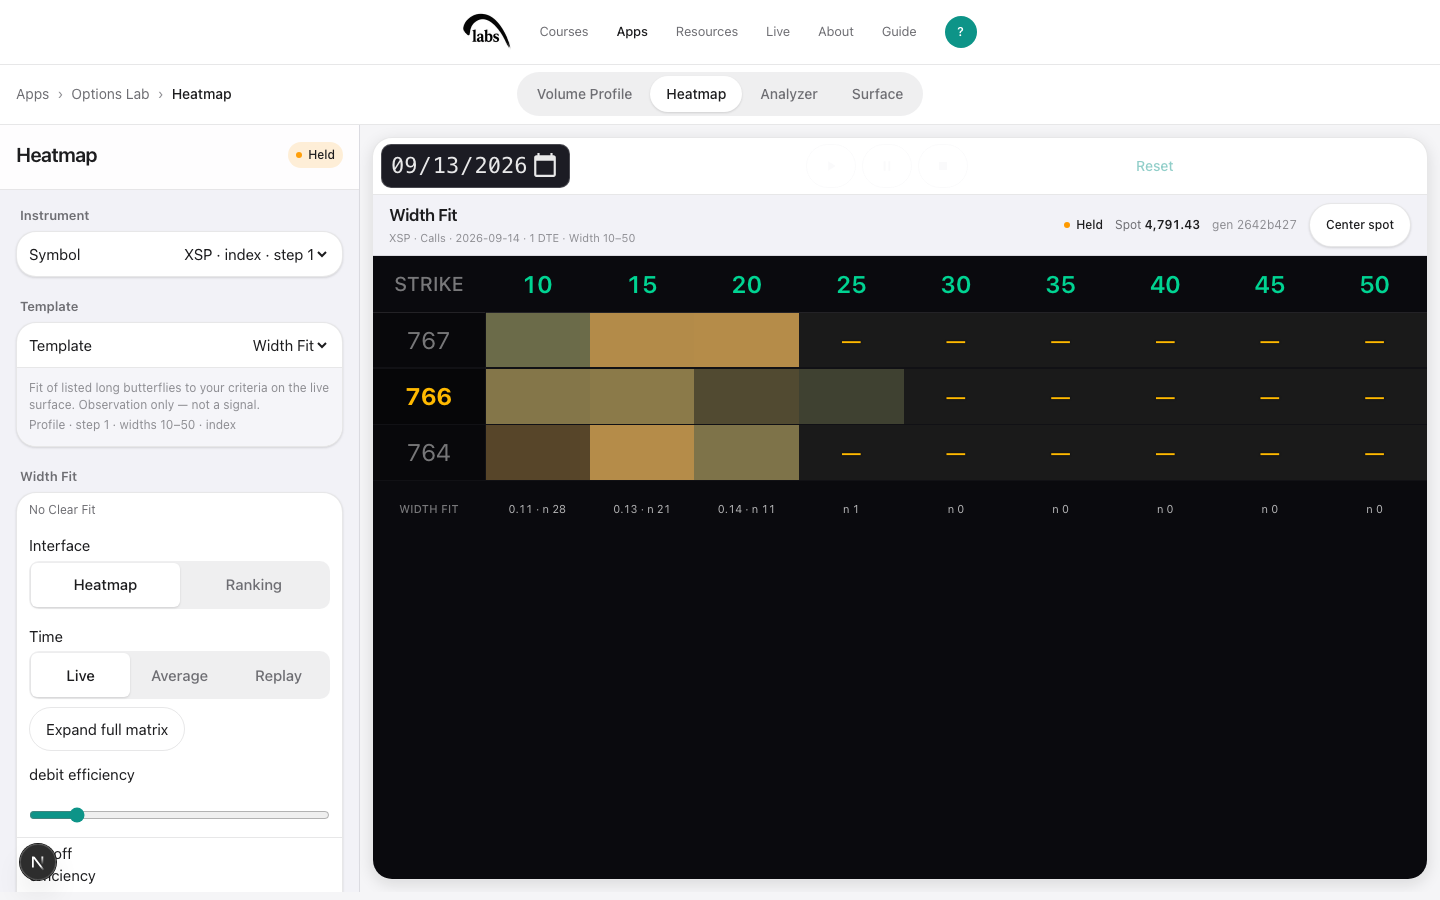
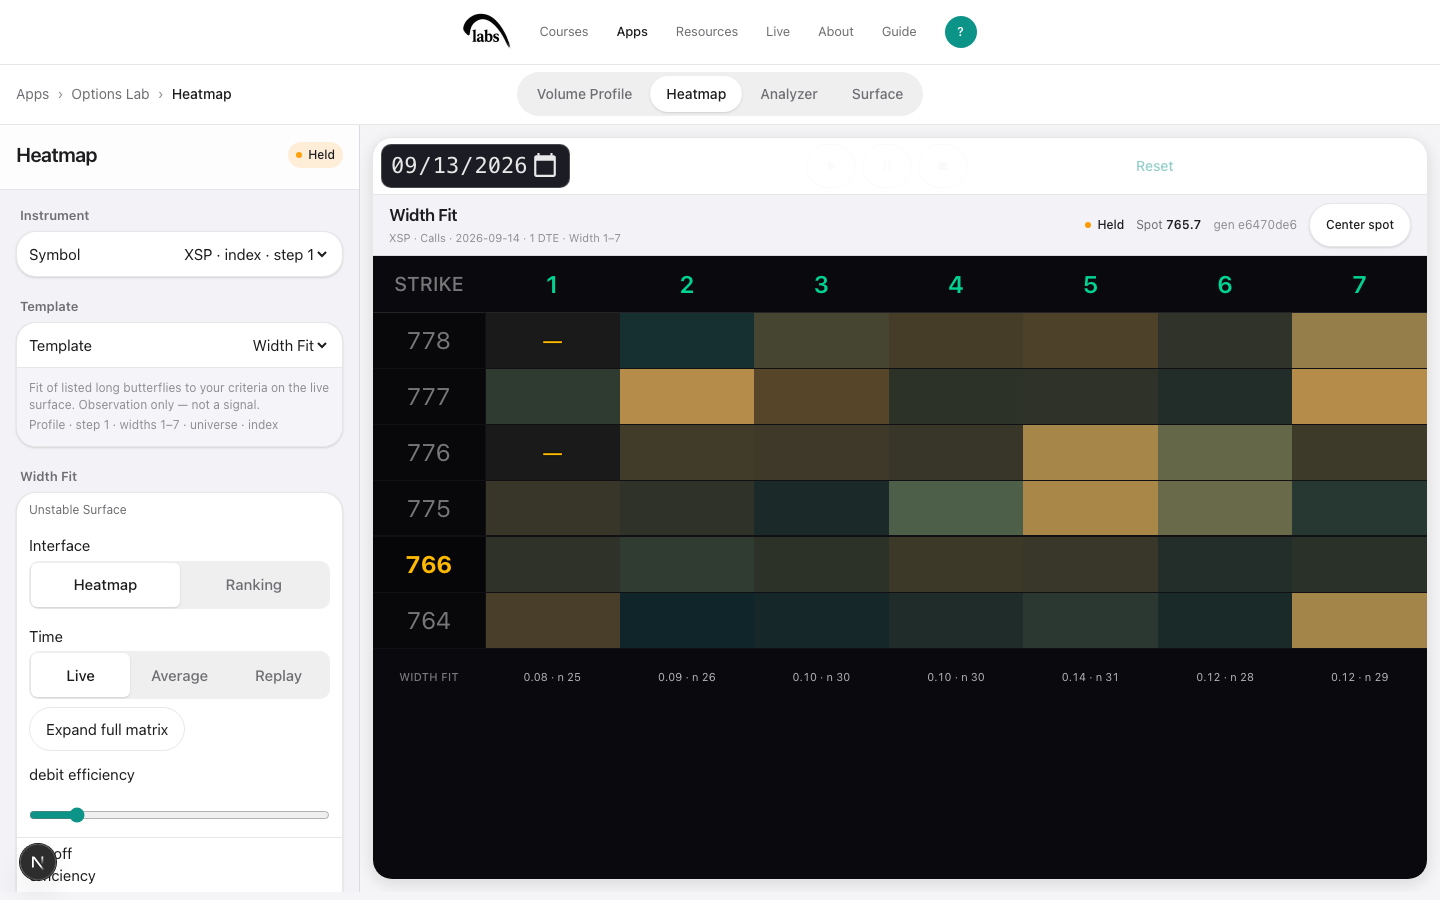
docs(options-lab): XS4 live recapture, FI-050, XS0–XS5 gates PASS
Recapture Playwright against Next serving the XS packet (5 passed).
Flag QQQ/IWM heatmap 10…50 as FI-050 (JR8). Write XS0-G…XS5-G.

diff --git a/agents/p-options-lab-xsp-spy-scale/gate-reports/xs4/at-pack.md b/agents/p-options-lab-xsp-spy-scale/gate-reports/xs4/at-pack.md
@@ -1,8 +1,9 @@
 # XS4 AT pack — evidence index
 
 **Date:** 2026-09-13  
-**Worktree HEAD:** PR2+PR3+PR4 merged (`725ed06`)  
-**Live UI (`:3000` / `:4000`):** `/Users/ernie/Fattail-Labs` `a27f187` WIDTH-1 — **not** this worktree. Servers were not stopped.
+**Landed:** `origin/main` (XS packet). Recapture Next: PR6 worktree `:3000`. API `:4000` main.  
+**First run** (WIDTH-1 Next): `playwright.txt` — AT-XS6/9/10 live FAIL expected.  
+**Recapture:** `playwright-recapture.txt` — **5 passed**. Shots 04/06/07 overwritten with PASS.
 
 | Id | Result | Evidence |
 |----|--------|----------|
@@ -13,7 +14,7 @@
 | **AT-XS4** | PASS (live Create) | `01-xsp-1-wide.png` 765/766/767 at spot 765.70; walk `05-xsp-width-walk.png` |
 | **AT-XS5** | PASS (live + unit) | `03-spx-20-wide.png` 7635/7655/7675; unit NDX/RUT/QQQ/IWM/AAPL 20 |
 | **AT-XS5b** | PASS (grep) | `defaultWidth` still `NDX` / `NQ*` → 50 |
-| **AT-XS6** | FAIL on live Next (expected) · PASS unit | Live `:3000` is WIDTH-1 — `handleTemplate` still reseeds 20 (`04-xsp-template-reseed.png` 746/766/786). Unit `labDefaultForStrategy("butterfly","XSP").wingWidth === 1` |
+| **AT-XS6** | PASS live recapture | `04-xsp-template-reseed.png` · `playwright-recapture.txt`. First run FAIL was WIDTH-1 Next |
 | **AT-XS7** | PASS (unit) | `heatmapColumnWidths.test.ts` |
 | **AT-XS7b** | PASS (unit) | same |
 | **AT-XS7c** | PASS (unit) | interior `[1,2,3]` |
@@ -23,8 +24,8 @@
 | **AT-XS7g** | PASS (live SQL) | `profile-live.json` — exactly SPY, XSP |
 | **AT-XS8** | PASS (unit + live SPX shot) | `08-heatmap-spx-cols.png` 10…50 |
 | **AT-XS8b** | PASS (unit) | NDX/RUT/VIX + QQQ/IWM/AAPL freeze `[10…50]` — QQQ/IWM **not** “fixed” |
-| **AT-XS9** | FAIL on live Next (expected) · PASS unit | Live XSP heatmap still DL-435 `10…50` (`06-heatmap-xsp-cols.png`). PR3 helper is not the process on `:3000` |
-| **AT-XS10** | FAIL on live Next (expected) · PASS unit | Live XSP Width Fit footer 9 (`07-width-fit-xsp.png`); SPX footer 9 (`09-width-fit-spx.png`) |
+| **AT-XS9** | PASS live recapture | `06-heatmap-xsp-cols.png` columns 1–7. First run FAIL was WIDTH-1 Next |
+| **AT-XS10** | PASS live recapture | `07-width-fit-xsp.png` footer 7 · `09-width-fit-spx.png` footer 9 |
 | **AT-XS11** | PASS (unit + live) | `listedWingChoices.test.ts`; `02-spy-listed-honesty.png` 744/764/784 — prefer=1, honest 20, not a lying 1-wide |
 | **AT-XS12** | PASS (pytest) | `pytest-symbol-profile.txt` — 8 passed |
 | **AT-XS12b** | PASS (live SQL) | `profile-live.json` / `profile-live.txt` |
@@ -54,4 +55,4 @@
 - `npx tsc --noEmit` (web) — exit 1, **34 pre-existing** errors in algo/LIM/blotter tests. **Zero** in XS files. See `tsc.txt`.
 - `pytest tests/test_symbol_profile.py` — **8 passed**
 - `npx --yes tsx` helper tests — heatmapColumnWidths 18, builderCreateDefault 10, listedWingChoices 5
-- Playwright vs `http://localhost:3000` — Create 01/02/03 + walk 05 PASS; AT-XS6 / heatmap 1–7 FAIL because live Next is WIDTH-1 main
+- Playwright vs `http://localhost:3000` — first run Create PASS, AT-XS6/9/10 FAIL (WIDTH-1 Next). Recapture **5 passed** (`playwright-recapture.txt`)

diff --git a/AGENTS.md b/AGENTS.md
@@ -25,7 +25,7 @@ LearnDash. No shared code with MarketSwarm-Canonical (HTTP only).
 |----------|---------------------|
 | **Options Lab Heatmap LIM (active program · DL-651 · DL-652 · LIM7)** | LIM remains active (LIM7 surface fit). Do not drift LIM. IKI Lab is **parked**, not cancelled. DL-539 §8 five-module freeze is **unchanged** except the Quant line below. |
 | **Quant Lab fill-friction (active program · DL-679 · QFRIC)** | ATRV v0.10 §3.7.1 BUILD. Board `agents/p-quant-friction/`. Token `agents/go/QFRIC-W0.md`. Isolation: DL-677 quant files + Monte Carlo page + `validate_quant_env` + `.env.example`. No LIM file, no OPF file, no store/builder. P4 skipped until fill history (never in the repo). |
-| **Options Lab XSP/SPY scale (active program · DL-700 · XS)** | Plan **v1.3**. Board `agents/p-options-lab-xsp-spy-scale/`. Token `agents/go/XS0-W0.md` **GO**. Third tree alongside LIM and QFRIC. WIDTH-1 `a27f187` prerequisite. No LIM file, no QFRIC file, no `AnalyzerPositionsList`, no MiniTwo. **NX18:** a passing XS gate is not IKI progress. Runner is Template Runner (`web/lib/runner/`). XS4 AT pack landed locally (not MiniTwo, not IKI). |
+| **Options Lab XSP/SPY scale (active program · DL-700 · XS)** | Plan **v1.3** landed `origin/main`. Board `agents/p-options-lab-xsp-spy-scale/`. Token `agents/go/XS0-W0.md` **GO**. Gates XS0-G…XS5-G **PASS**. Third tree alongside LIM and QFRIC. WIDTH-1 `a27f187` prerequisite. No LIM file, no QFRIC file, no `AnalyzerPositionsList`. Live AT recapture 5/5 on Coach MacBook. MiniTwo is Coach remote (named 2026-09-13; this agent does not SSH). **NX18:** a passing XS gate is not IKI progress. Runner is Template Runner (`web/lib/runner/`). **FI-050** XS-ETF deferred. |
 | **Strategy Lab NOW** | Lock **Design + Curate** for entitled members. Multi-member Curate is absolute. |
 | **Deploy** | Members get **Deploy UX** except **real-broker (Tradier) real-money**. Admin dogfoods Tradier, then provision. **DL-251 / DL-252**. |
 | **Market Bus (shipped core)** | Live chains/symbols: **Massive → feeds → Redis → one WS/tab → shared client**. Options Lab at `/app/options-lab`. See Arch **28**. |

diff --git a/Architecture/flagged-ideas.md b/Architecture/flagged-ideas.md
@@ -76,6 +76,7 @@ Do **not** use `DISCARDED` / `REJECTED` as idea status.
 | FI-047 | 2026-09-04 | AZ-ALGO v2.3 | Persist-N-bars `H` before it shrinks headroom (wick vs held peak) | Review-2 India/Hotel (E26) | E26 as written folds (or keeps folding) on a print the member never held. Filter is a modelling program, same family as OD-ALGO-6. Do not smuggle into v2.3. | `OPEN` | Spec v2.3 §9.4.3 · Review-2 seam 4 · wick fixture 25 |
 | FI-048 | 2026-09-04 | AZ-ALGO v2.3.2 | Adverse horizon as a Γ-conditional function | Review v2.3.2 India/Hotel (E37) | Discriminating band depends on `Γ` and `H`. Making the *key* a function double-counts convexity already in `PaR`. Modelling program. Do not smuggle. §14.5 reports whether a constant horizon can serve apex and wing. | `OPEN` | Spec v2.3.2 §9.4.1 · Review v2.3.2 seam E37 |
 | FI-049 | 2026-09-13 | Coach + Claude | **XSP/SPY scale ≠ IKI Labs orbit.** A passing XS gate is **not** progress on the bigger goal. IKI Labs (Runner + Analyzer as base capability, Factory catalog, observer remainder) is standing **review context** only | Coach 2026-09-13 · Claude: chat-only boundary fails DL-328 | Future session will grow XS* into IKI, or re-warn that “Runner” clashes with `web/lib/runner/` | `PARKED` | Note `docs/Observer-Post-Trial-Gift-Surface-Note-2026-09-13.md` · plan v1.3 **NX18**. **Runner is Template Runner** (Spec v0.1 / `web/lib/runner/registry.ts`) — not a coined name. Revisit when Coach names an IKI / `observer-light` packet |
+| FI-050 | 2026-09-13 | XS plan v1.3 JR8 | **XS-ETF:** QQQ / IWM `$1` strike grid still paints heatmap columns **10…50** (IWM 50-wide is >20% of spot). Same class of defect as pre-XS XSP/SPY; not a non-regression Keep | Lima · XS0-9 | Migration 119 `strike_step = 1.0` for `XSP, SPY, QQQ, IWM`. Overlay helper is provenance-gated (`fixed_points`); QQQ/IWM stay `step_multiples` so they never hit branch 1. Do not smuggle a fix on the XS board | `DEFERRED` | Plan v1.3 **NX5** · **L9** · AT-XS8b freeze · **DL-701**. Revisit when Coach names an **XS-ETF** packet. Do not bless 10…50 as known-good |
 
 ---
 

diff --git a/agents/p-options-lab-xsp-spy-scale/gate-reports/XS4-G.md b/agents/p-options-lab-xsp-spy-scale/gate-reports/XS4-G.md
@@ -1,0 +1,28 @@
+# XS4-G — Acceptance pack
+
+**Delta** · 2026-09-13 · plan v1.3 · OD-XS1 (a)
+
+**PASS**
+
+Live Next at recapture: PR6 worktree `/Users/ernie/Fattail-Labs-execute-plan/pr-6/web` serving `:3000` (XS packet). API `:4000` main uvicorn. Did not stop servers. Did not SSH MiniTwo.
+
+| Id | Result | Evidence |
+|----|--------|----------|
+| AT-XS1 / 2 / 2b / 3 / 5b | PASS unit | `xs4/helper-unit-tests.txt` |
+| AT-XS4 XSP Create 1-wide | PASS live | `01-xsp-1-wide.png` |
+| AT-XS4 walk 1…7 | PASS live (retry after one off-market flake at 20) | `05-xsp-width-walk.png` |
+| AT-XS5 SPX 20-wide | PASS live | `03-spx-20-wide.png` |
+| AT-XS6 template does not re-seed 20 | PASS live | `04-xsp-template-reseed.png` |
+| AT-XS7 / 7b / 7c / 7d / 7e / 7f / 7g | PASS unit + SQL | helper tests · `profile-live.json` |
+| AT-XS8 / 8b | PASS unit + live SPX | `08-heatmap-spx-cols.png` · QQQ/IWM freeze **FI-050** |
+| AT-XS9 XSP heatmap 1–7 | PASS live | `06-heatmap-xsp-cols.png` |
+| AT-XS10 Width Fit XSP footer 7 | PASS live | `07-width-fit-xsp.png` · SPX `09-width-fit-spx.png` |
+| AT-XS11 SPY listed honesty | PASS live | `02-spy-listed-honesty.png` |
+| AT-XS12 / 12b | PASS pytest + live SELECT | `pytest-symbol-profile.txt` · `profile-live.json` |
+| AT-XS13…21 | PASS unit | helper tests |
+| AT-XS14 | PASS | no `AnalyzerPositionsList.tsx` |
+| AT-XS16 | PASS | builder-width / centre / expiration count 0 |
+| tsc | pre-existing 34, **zero** in XS files | `tsc.txt` |
+| e2e tracked | `web/e2e/width1-xsp-spy.spec.ts` · OUT this board `xs4/` | `playwright-recapture.txt` **5 passed** |
+
+Prior `playwright.txt` FAILs were honest: live Next was WIDTH-1 `a27f187`. Recapture supersedes AT-XS6 / 9 / 10 live rows only.

diff --git a/agents/p-options-lab-xsp-spy-scale/ORCHESTRATOR.md b/agents/p-options-lab-xsp-spy-scale/ORCHESTRATOR.md
@@ -19,12 +19,12 @@ XS1, XS2, XS3 are **siblings after XS0-0**. Heatmap columns do not wait on Creat
 
 | Phase | Name | State |
 |-------|------|--------|
-| **XS0** | Board · OD-XS* · seeds · AGENTS reassignment · plan hash | **GO** — `XS0-W0.md` · **DL-700** |
-| **XS1** | Create / recipe scale + OD-XS7 XSP fallbacks | After XS0-0 |
-| **XS2** | Heatmap column resolver + scoped DL-435 reverse in the same PR | After XS0-0 · OD-XS1 (a) |
-| **XS3** | SPY listed-snap policy | After XS0-0 · OD-XS2 (a) |
-| **XS4** | AT-XS* · pytest · live migrate-152 · Playwright · e2e fold | After XS1 · XS2 · XS3 |
-| **XS5** | Arch 29 · AF changelog row · pointer honesty · close | After XS4 |
+| **XS0** | Board · OD-XS* · seeds · AGENTS reassignment · plan hash | **PASS** `XS0-G.md` · **GO** `XS0-W0.md` · **DL-700** |
+| **XS1** | Create / recipe scale + OD-XS7 XSP fallbacks | **PASS** `XS1-G.md` |
+| **XS2** | Heatmap column resolver + scoped DL-435 reverse in the same PR | **PASS** `XS2-G.md` · **DL-701** |
+| **XS3** | SPY listed-snap policy | **PASS** `XS3-G.md` |
+| **XS4** | AT-XS* · pytest · live migrate-152 · Playwright · e2e fold | **PASS** `XS4-G.md` · live recapture 5/5 |
+| **XS5** | Arch 29 · AF changelog row · pointer honesty · close | **PASS** `XS5-G.md` · Coach close remaining |
 | **XS-W** | Width picker | **Never this board** (L3) |
 
 **Data law:** Universe overlay (`source === "market_symbol_universe"` ∧ `fixed_points`) is scale SoR. Kind-default must not paint as overlay. AZ-DEF-4: never invent unlisted arithmetic width. Panel and runner consume **one** resolved list (`ChainContext.columnWidths`).

diff --git a/agents/p-options-lab-xsp-spy-scale/gate-reports/XS2-G.md b/agents/p-options-lab-xsp-spy-scale/gate-reports/XS2-G.md
@@ -1,0 +1,22 @@
+# XS2-G — Heatmap columns
+
+**Delta** · 2026-09-13 · plan v1.3 · OD-XS1 (a) · OD-XS10 (a) · OD-XS11 (a)
+
+**PASS** — landed `576b17a` (`fix(options-lab): heatmap columns follow universe overlay for XSP/SPY`) + **DL-701**.
+
+| Assert | Result |
+|--------|--------|
+| Overlay gate = `source === "market_symbol_universe"` ∧ `fixed_points` | PASS AT-XS7 / 7e |
+| **No** `XSP \|\| SPY` on overlay path | PASS AT-XS20 TESTSYM |
+| Interior overlay `[1,2,3]` not clamped to `[1..7]` | PASS **AT-XS7c** (LIM E15 / B2) |
+| Live `[1..8]` not clamped to 7 | PASS AT-XS7d |
+| Coerced kind-default XSP/SPY → `[1..7]`, source `client_kind_default` | PASS AT-XS7b |
+| AT-XS7g SELECT exactly XSP, SPY `fixed_points` | PASS `profile-live.json` |
+| Runner `cols[].widthPts` === panel `columnWidths` | PASS AT-XS7f |
+| `profileLine` universe vs kind default; empty never `undefined` | PASS AT-XS17 / AT-XS18 |
+| SPX/NDX/RUT/VIX → `[10…50]` known-good this packet | PASS AT-XS8 |
+| QQQ/IWM/AAPL → `[10…50]` **deferred-defect freeze** | PASS AT-XS8b · **FI-050** |
+| `OFFLINE_FALLBACK_WIDTHS` kept | PASS OD-XS11 (a) |
+| `useOptionChainBus.ts` not in diff | PASS |
+
+Evidence: `gate-reports/xs4/helper-unit-tests.txt` · `profile-live.json` · `gate-reports/xs2/fixed-points-rows.txt`.

diff --git a/agents/p-options-lab-xsp-spy-scale/gate-reports/XS5-G.md b/agents/p-options-lab-xsp-spy-scale/gate-reports/XS5-G.md
@@ -1,0 +1,16 @@
+# XS5-G — Docs close
+
+**Delta** · 2026-09-13 · plan v1.3 · OD-XS1 (a) · OD-XS5 no Spec version bump
+
+**PASS**
+
+| Item | Evidence |
+|------|----------|
+| Arch 29 as-built 1.5 | `Architecture/29-options-lab-heatmap-templates.md` — XSP/SPY overlay columns **DL-701**; SPX-class remainder **DL-435**; helper `heatmapColumnWidths`; **NX18** |
+| AF Spec changelog row, **no version bump** | `Specs/FatTail-Labs-Options-Lab-Heatmap-Advanced-Fly-Spec-v0_2.md` header still **v0.2.4**; changelog amends §3.2 for XSP/SPY overlay only |
+| AGENTS.md third-tree line | Landed XS0-0 / PR 1 (**DL-700**). Honesty: packet on `origin/main`; MiniTwo is Coach remote (named, not this agent); **NX18** still holds |
+| Scoped DL-435 reverse | **DL-701** in the heatmap PR, not deferred to this gate |
+| FI-050 XS-ETF | `Architecture/flagged-ideas.md` — QQQ/IWM heatmap 10…50 **DEFERRED**. FI-049 remains IKI PARKED |
+| Spec version | **Not** bumped |
+
+**Does not.** MiniTwo SSH from this agent. IKI Labs / `observer-light` / Factory catalog. `AnalyzerPositionsList.tsx`. Width picker. XS-ETF implementation.

diff --git a/agents/p-options-lab-xsp-spy-scale/gate-reports/XS1-G.md b/agents/p-options-lab-xsp-spy-scale/gate-reports/XS1-G.md
@@ -1,0 +1,19 @@
+# XS1-G — Create / recipe scale
+
+**Delta** · 2026-09-13 · plan v1.3 · OD-XS9 (a) · OD-XS7 XSP only
+
+**PASS** — landed `6a98531` (`fix(options-lab): XSP/SPY butterfly recipes seed 1-wide`).
+
+| Assert | Result |
+|--------|--------|
+| `butterflyWingWidth` XSP/SPY → 1, else 20 | PASS unit AT-XS1 / AT-XS2 |
+| `labCreateOpenDefault` / butterfly Lab branch use it only | PASS |
+| `productWingHint("XSP")` still 20 | PASS AT-XS3 (`SPX \|\| XSP` grep kept) |
+| XSP vertical / straddle / iron_condor unchanged | PASS AT-XS2b |
+| SPY vertical 5 | PASS |
+| NDX/RUT/QQQ/IWM/AAPL butterfly 20 | PASS |
+| `defaultWidth` NDX/NQ* → 50 untouched | PASS AT-XS5b |
+| OD-XS7 `defaultDiagonalWidth(XSP)` 15 → 1; `axisSpot` XSP only | PASS. SPX arm deferred (A3) |
+| Diff excludes Tos padlock, dialog chrome, `defaultWidth` | PASS |
+
+Evidence: `gate-reports/xs4/helper-unit-tests.txt` · `grep-leftovers.txt`.

diff --git a/agents/p-options-lab-xsp-spy-scale/gate-reports/xs4/run-log.md b/agents/p-options-lab-xsp-spy-scale/gate-reports/xs4/run-log.md
@@ -33,5 +33,11 @@ Unit tests for those ATs **PASS on this worktree**. They will pass in Playwright
 ## Leftovers (do not “fix”)
 
 - `productWingHint`: `s === "SPX" \|\| s === "XSP"` → 20 remains (OD-XS9 a)
-- QQQ/IWM heatmap still 10…50 (XS-ETF deferred)
+- QQQ/IWM heatmap still 10…50 (XS-ETF deferred · **FI-050**)
 - `fetch_step_floor` not edited
+
+## Recapture (2026-09-13, after Next served the XS packet)
+
+`:3000` cwd = `/Users/ernie/Fattail-Labs-execute-plan/pr-6/web`. API `:4000` unchanged. Did not stop servers. Did not SSH MiniTwo.
+
+`npx playwright test e2e/width1-xsp-spy.spec.ts` → **5 passed** (`playwright-recapture.txt`). AT-XS6 / AT-XS9 / AT-XS10 live PASS. One earlier full-run walk flake (off-market Create opened 20 for 45s); isolated + subsequent full run PASS.

diff --git a/agents/p-options-lab-xsp-spy-scale/gate-reports/XS3-G.md b/agents/p-options-lab-xsp-spy-scale/gate-reports/XS3-G.md
@@ -1,0 +1,15 @@
+# XS3-G — SPY listed-snap policy
+
+**Delta** · 2026-09-13 · plan v1.3 · OD-XS2 (a)
+
+**PASS** — landed `8c5fd4f` (`test(options-lab): listed snap prefer-1 on dense $1 and sparse 20 grids`).
+
+| Assert | Result |
+|--------|--------|
+| Dense $1 listed grid → snap 1 | PASS fixture |
+| Sparse 20-grid → snap 20, never invent 1 | PASS AT-XS11 |
+| Live SPY Create honest listed (prefer=1) | PASS `02-spy-listed-honesty.png` (744/764/784 when 1 unlisted) |
+| Member copy: nearest listed wing, not “best” | PASS Tango phrase |
+| Denser fetch / `fetch_step_floor` | **Not** implemented (NX2) |
+
+Evidence: `gate-reports/xs4/helper-unit-tests.txt` (`listedWingChoices.test.ts`) · `02-spy-listed-honesty.png`.

diff --git a/agents/p-options-lab-xsp-spy-scale/gate-reports/XS0-G.md b/agents/p-options-lab-xsp-spy-scale/gate-reports/XS0-G.md
@@ -1,0 +1,7 @@
+# XS0-G — Board · OD table · seeds
+
+**Delta** · 2026-09-13 · plan v1.3
+
+**PASS** — Coach stamped `agents/go/XS0-W0.md` **GO** (**DL-700**). Seeds `XS0-1`…`XS0-9` on disk. No product code in this phase.
+
+OD silent-at-GO defaults ticked on the token: XS1 (a) overlay · XS2 (a) listed-only · XS4 new board · XS5 no Spec bump · XS6 hold WIDTH-1 until stack travels · XS7 XSP only · XS8 same resolver · XS9 (a) butterfly-only · XS10 (a) `columnWidths` · XS11 (a) keep `OFFLINE_FALLBACK`. L3 Width picker locked (not an OD). JR1–8 Accept. **NX18 / FI-049**.

diff --git a/agents/p-options-lab-xsp-spy-scale/CHARTER.md b/agents/p-options-lab-xsp-spy-scale/CHARTER.md
@@ -62,4 +62,4 @@ Reconnect remaining XSP/SPY fly-scale consumers (heatmap columns, Create butterf
 
 ## Status
 
-**XS0-0 GO** · **DL-700**. Plan **v1.3**. WIDTH-1 `a27f187` prerequisite.
+**XS0–XS5 landed** `origin/main`. Gates `XS0-G`…`XS5-G` **PASS**. Plan **v1.3**. WIDTH-1 `a27f187` prerequisite. **DL-700** / **DL-701**. Live AT recapture 5/5. **FI-050** XS-ETF deferred. MiniTwo is Coach remote (named; this agent does not SSH). Coach close remaining. **NX18** still holds.
